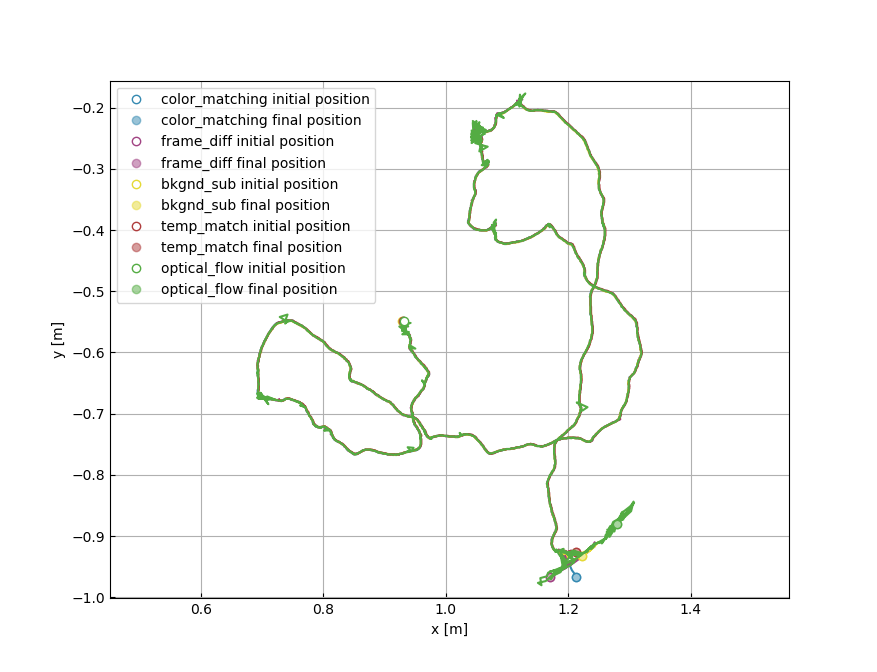
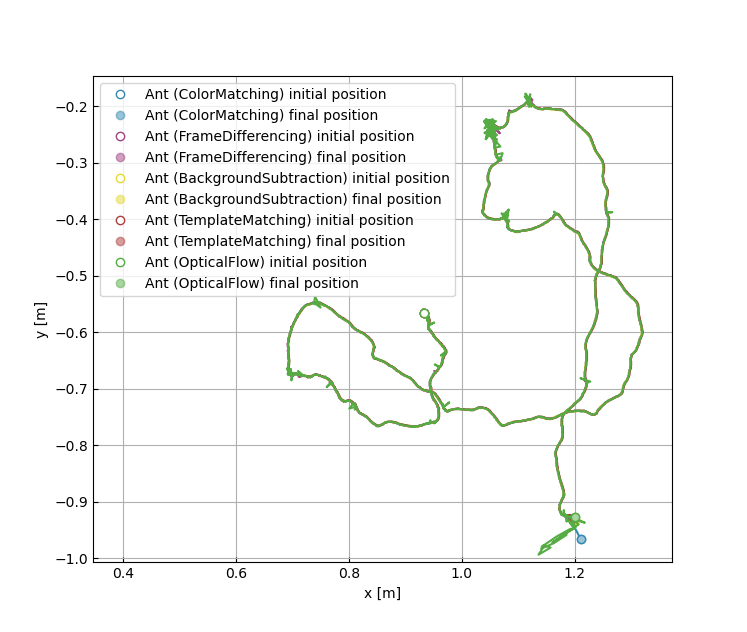
Update example 2

Changed region(s): [[0.0308, 0.1203, 0.8929, 0.962], [0.3387, 0.6013, 0.4003, 0.6614], [0.0924, 0.6013, 0.1539, 0.6313]]

diff --git a/docs/source/examples/example2.rst b/docs/source/examples/example2.rst
@@ -70,7 +70,7 @@ color spaces, by default BGR.
 .. code-block:: python
 
    algorithm = ColorMatching((0,0,0), (150,150,150))
-   trackers.append( ObjectTracker('color_matching', algorithm, ROI((50, 50))) )
+   trackers.append( ObjectTracker('Ant (ColorMatching)', algorithm, ROI((50, 50))) )
 
 In the case of FrameDifferencing, we specify the threshold in pixel
 intensity difference among two consecutive frames to be considered part of the
@@ -79,7 +79,7 @@ tracked object.
 .. code-block:: python
 
    algorithm = FrameDifferencing(frame_diff_threshold=5)
-   trackers.append( ObjectTracker('frame_diff', algorithm, ROI((50, 50))) )
+   trackers.append( ObjectTracker('Ant (FrameDifferencing)', algorithm, ROI((50, 50))) )
 
 BackgroundSubtraction algorithm requires a picture that contains only the
 background of the scene. However, if there is none available, it is possible
@@ -92,7 +92,7 @@ moving object.
 
    background = BackgroundEstimator.from_video(video_path, 20)
    algorithm = BackgroundSubtraction(background, background_threshold=5)
-   trackers.append( ObjectTracker('bkgnd_sub', algorithm, ROI((50, 50))) )
+   trackers.append( ObjectTracker('Ant (BackgroundSubtraction)', algorithm, ROI((50, 50))) )
 
 For the case of TemplateMatching algorithm, a template
 image containing a typical sample of the object being tracked must be
@@ -103,7 +103,7 @@ correlation between the template and the region of the frame is maximum.
 
    template = cv2.imread(template_file)
    algorithm = TemplateMatching(template, threshold=0.7)
-   trackers.append( ObjectTracker('temp_match', algorithm, ROI((50, 50))) )
+   trackers.append( ObjectTracker('Ant (TemplateMatching)', algorithm, ROI((50, 50))) )
 
 OpticalFlow algorithm computes a dense optical flow among the current frame and
 the i-th previous frame, specified by the parameter buffer_size. If the
@@ -113,7 +113,7 @@ of the moving object.
 .. code-block:: python
 
    algorithm = OpticalFlow(threshold=0.3, buffer_size=3)
-   trackers.append( ObjectTracker('optical_flow', algorithm, ROI((50, 50))) )
+   trackers.append( ObjectTracker('Ant (OpticalFlow)', algorithm, ROI((50, 50))) )
 
 .. _Results 2:
 
